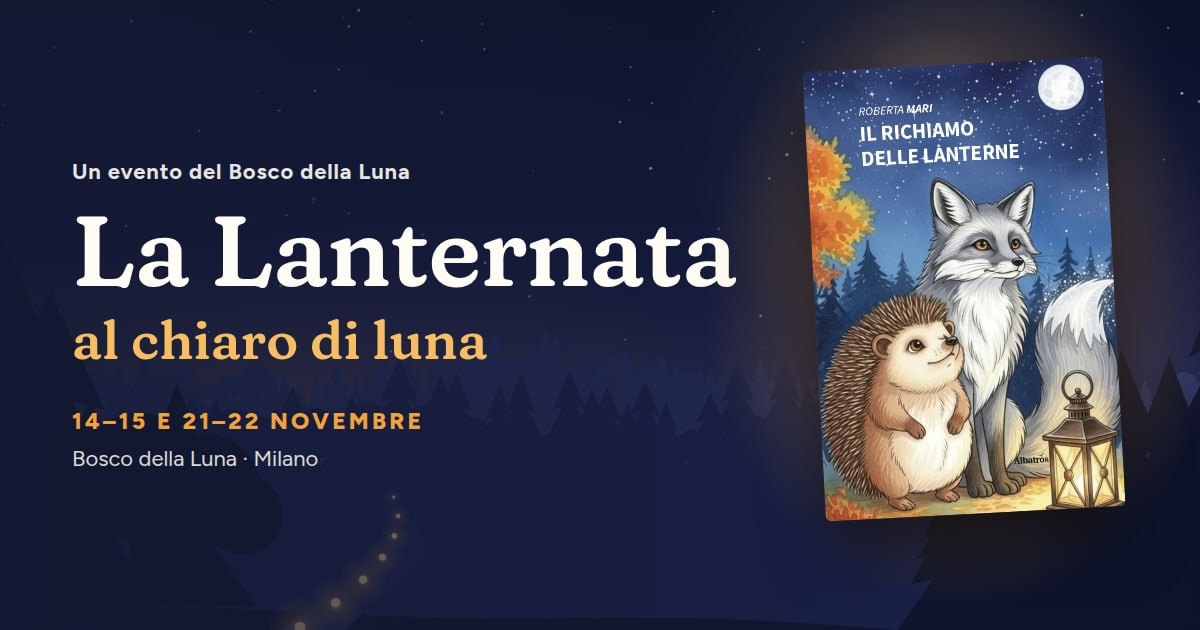
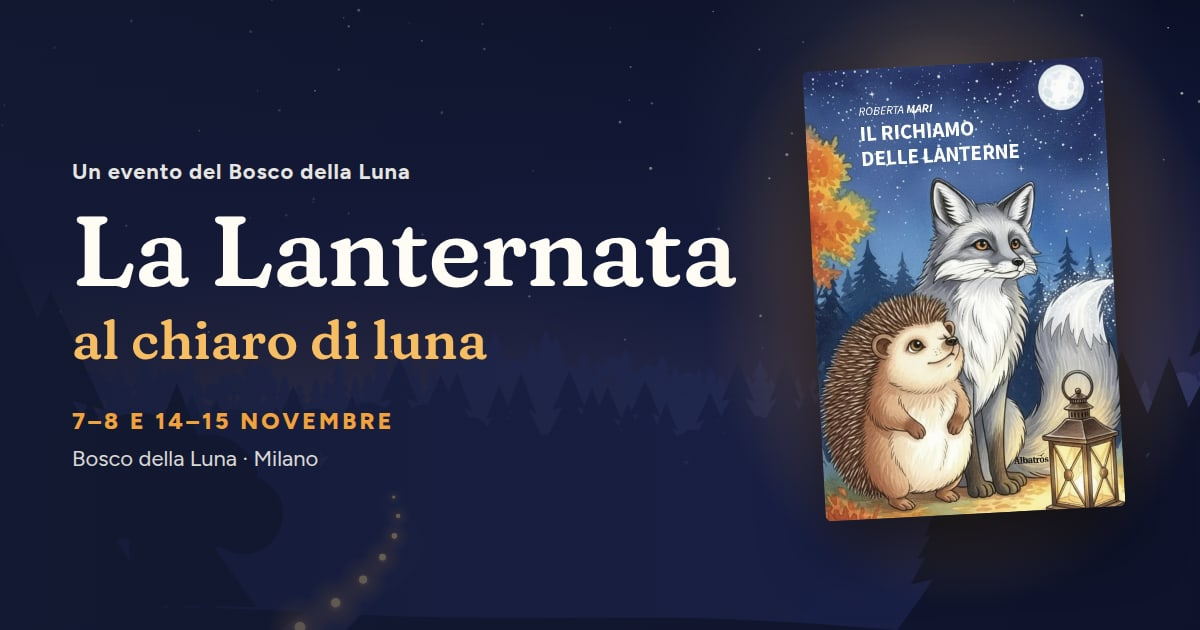
Date 7–8 e 14–15 novembre e testi più coinvolgenti
- Le date passano a sabato 7 e domenica 8, sabato 14 e domenica 15 novembre
  2026: hero, programma, info, FAQ, descrizione, dati strutturati e
  immagine social.
- Tutti i testi narrativi riscritti per portare le famiglie dentro la
  serata (nuova regola COPY-09); quelli pratici restano diretti.
- Nell'hero una frase in maiuscolo sotto il titolo (campo "lead" nel
  pannello e nel manuale); sui telefoni in verticale il testo parte sotto
  la luna del disegno.
- Le lanterne non sono più "una sorpresa" (COPY-08): dopo la lettura ogni
  bambino ritrova la sua, asciutta e già accesa.

Changed region(s): [[0.0617, 0.6333, 0.37, 0.6937]]

diff --git a/docs/manuale-cliente.html b/docs/manuale-cliente.html
@@ -727,8 +727,12 @@
                 <td>La riga ambra sotto il titolo («al chiaro di luna»).</td>
               </tr>
               <tr>
+                <td>Frase sotto il titolo, in maiuscolo (vuoto = nascosta)</td>
+                <td>La frase in lettere maiuscole che apre il racconto, subito sotto il titolo. Una frase breve: in maiuscolo un testo lungo si legge male, soprattutto sul telefono.</td>
+              </tr>
+              <tr>
                 <td>Sottotitolo</td>
-                <td>Il paragrafo sotto il titolo. Per andare a capo basta un a capo nel testo.</td>
+                <td>Il paragrafo sotto il titolo (e sotto la frase in maiuscolo, se c'è): l'invito a entrare nella serata. Per andare a capo basta un a capo nel testo.</td>
               </tr>
               <tr>
                 <td>Riga date e orario</td>
@@ -847,7 +851,7 @@
             <tbody>
               <tr>
                 <td>Occhiello, Titolo, Introduzione</td>
-                <td>L'intestazione della sezione. L'introduzione oggi cita gli orari: se cambiano, va corretta.</td>
+                <td>L'intestazione della sezione. L'introduzione oggi conta le date («tutte e quattro le date»): se cambia il loro numero, va corretta.</td>
               </tr>
               <tr>
                 <td>Titolo del blocco date (letto dai lettori di schermo)</td>
@@ -959,11 +963,11 @@
           solo i numeri.
         </p>
         <div class="callout nota">
-          <span class="label">La sorpresa</span>
+          <span class="label">La lanterna</span>
           <p>
-            La tappa «Una sorpresa luminosa» racconta ai genitori che i bambini, finita la storia,
-            ritrovano le loro lanterne accese. Se la riscrivete, tenete parole che, lette insieme ai
-            bambini, lascino intatta la sorpresa.
+            La tappa «Ognuno ritrova la sua lanterna» racconta ai genitori che, finita la storia, tornando
+            verso il bar, ogni bambino riprende la lanterna che ha decorato, ormai asciutta e già accesa. Non è una
+            sorpresa: l'hanno fatta loro. Se la riscrivete, raccontatela come un passaggio della serata.
           </p>
         </div>
       </section>
@@ -1187,9 +1191,8 @@
             appena le avete, togliendo i segnaposto dall'elenco e cambiando la descrizione di ogni foto.
           </p>
           <p>
-            Due attenzioni: niente immagini generate al computer o di altri eventi presentate come foto
-            della serata, e niente foto che svelino la sorpresa delle lanterne accese che i bambini
-            ritrovano dopo la lettura.
+            Un'attenzione: niente immagini generate al computer o di altri eventi presentate come foto
+            della serata.
           </p>
         </div>
       </section>
@@ -1731,7 +1734,7 @@
               </tr>
               <tr>
                 <td>Titolo grande</td>
-                <td>Il titolo («Hai perso il sentiero»).</td>
+                <td>Il titolo («Avete perso il sentiero»).</td>
               </tr>
               <tr>
                 <td>Testo</td>
@@ -1850,11 +1853,11 @@
               </tr>
               <tr>
                 <td>Data di inizio evento (AAAA-MM-GG)</td>
-                <td>Il primo giorno della Lanternata, nella forma anno-mese-giorno con i trattini: <code>2026-11-14</code>. Non si vede: lo legge Google, e da qui il sito prende anche l'anno dei weekend.</td>
+                <td>Il primo giorno della Lanternata, nella forma anno-mese-giorno con i trattini: <code>2026-11-07</code>. Non si vede: lo legge Google, e da qui il sito prende anche l'anno dei weekend.</td>
               </tr>
               <tr>
                 <td>Data di fine evento (AAAA-MM-GG)</td>
-                <td>L'ultimo giorno, nella stessa forma: <code>2026-11-22</code>.</td>
+                <td>L'ultimo giorno, nella stessa forma: <code>2026-11-15</code>.</td>
               </tr>
             </tbody>
           </table>
@@ -1981,7 +1984,7 @@
                   <ul>
                     <li><em>7 · Info pratiche</em> › Turni › Orario (lo legge Google);</li>
                     <li><em>1 · Hero</em> › Riga date e orario;</li>
-                    <li><em>3 · La serata</em> › Introduzione e Riga sotto ogni data;</li>
+                    <li><em>3 · La serata</em> › Riga sotto ogni data;</li>
                     <li><em>10 · FAQ</em> › la risposta a «Quando e dove si svolge la Lanternata?»;</li>
                     <li>fuori dal sito: i turni su TicketingHub.</li>
                   </ul>
@@ -1989,7 +1992,7 @@
               </tr>
               <tr>
                 <td>Il numero di weekend</td>
-                <td>Oltre ai punti delle date, le frasi che dicono «due weekend»: <em>3 · La serata</em> › Introduzione e <em>8 · Biglietti</em> › Frase d'impatto.</td>
+                <td>Oltre ai punti delle date, le frasi che contano weekend o date: <em>3 · La serata</em> › Introduzione («tutte e quattro le date») e <em>8 · Biglietti</em> › Frase d'impatto («Due weekend al chiaro di luna»).</td>
               </tr>
               <tr>
                 <td>Un prezzo</td>

diff --git a/.claude/agents/copy-specialist.md b/.claude/agents/copy-specialist.md
@@ -33,7 +33,7 @@ phone, and make them curious about a book they have never heard of. You write fo
 
 Only these, and what the client adds (`COPY-03`):
 
-- **When**: 14–15 and 21–22 November, one turn a day, 15:30–18:30 (from `src/data/info.json`).
+- **When**: 7–8 and 14–15 November, one turn a day, 15:30–18:30 (from `src/data/info.json`).
 - **Who**: every child is welcome; recommended age 3–12. Prices by age: under 3 (not yet turned 3) free; from 3 (turned 3) to 12 not yet turned, child ticket 15 €, with at least one paying adult; from 12 turned, 5 € like adults. Under-3s decorate their lantern with a parent and take it home. Everyone can join the moonlit walk with the lanterns.
 - **How the evening goes** (`src/data/program.json`): children decorate their lantern and hand it in;
   it dries out of sight while they play; just after sunset, at the stage, the animated reading of the
@@ -52,15 +52,20 @@ Only these, and what the client adds (`COPY-03`):
 - **Concrete beats lyrical.** "Si parte per la passeggiata nel bosco con la lanterna accesa" says more
   than "un viaggio incantato tra le luci". If a sentence would fit any event, rewrite it for this one
   (`COPY-04`).
-- **The light carries the emotion**, so the words do not have to. Let the images (the lit lanterns,
-  the moon, the fox and the hedgehog) do the work; keep adjectives few.
+- **Tell a magical evening, not a datasheet** (`COPY-09`, the user's decision). Narrative texts draw
+  parents and children into the story and make them feel something magical is about to happen: build
+  it with concrete, sensory images (dusk falling on the woods, the light they made with their own
+  hands, the voice reading on the stage, walking together in the dark), not with adjectives. A correct
+  but flat or "skimpy" sentence is a failure here: the user rejected short, dry lines as
+  "striminzite". Practical texts stay answer-first.
 - **Never scary** (`COPY-02`): no horror or Halloween vocabulary — that is the sister site's world.
   The dark is where the light shows.
 - **The book, message first** (`COPY-07`): what the story is about and why it fits a walk with
   lanterns; then, gently, where to find it. Never spoil the lesson of the ending — it is the reading's
   surprise.
-- **The lit-lanterns surprise** (`COPY-08`): parents must know it happens; phrase it so a child reading
-  over their shoulder still gets the moment.
+- **The lanterns are not a surprise** (`COPY-08`): the children decorated them; after the reading,
+  walking back to the bar, each one picks up their own, dry and already lit, ready for the walk. Tell it as a step
+  of the evening, never as a mystery or a reveal.
 - **Answer-first where people ask** (`SEO-08`): the FAQ and info say dates, time, age, price, address
   and what to wear in plain sentences an assistant could quote.
 - **Consistency**: «Il richiamo delle lanterne» in caporali every time; "prenotare il posto"
@@ -70,5 +75,5 @@ Only these, and what the client adds (`COPY-03`):
 
 Read every changed string in `src/data/*.json` in page order, as a parent on a phone would. For each
 problem: the file and key, the current text, what goes wrong (inaccurate, scary, generic, inconsistent,
-spoils the surprise, invents a fact), a proposed rewrite, and the rule ID. Separate **errors** (facts,
+spoils the book's ending, invents a fact), a proposed rewrite, and the rule ID. Separate **errors** (facts,
 book citation, invented data) from **suggestions** (tone, rhythm). State what reads well and why.

diff --git a/docs/in-development/HANDOFF.md b/docs/in-development/HANDOFF.md
@@ -1,13 +1,12 @@
 # HANDOFF — La Lanternata al chiaro di luna
 
-Aggiornato: **13 ott 2026, ore 22:00**: anteprima online in HTTPS, età e prezzi, Instagram dell'autrice, footer sui tablet, riga sottile sui bordi tolta. Prima versione: progetto creato da zero (canone, team di agenti
-e skill, sito completo in locale, revisioni di codice, copy, CMS, accessibilità e design già applicate).
-Nessun commit ancora.
+Aggiornato: **20 ott 2026**: date spostate a **7–8 e 14–15 novembre** (su richiesta dell'utente), stesso turno 15:30–18:30. Riscritti il sottotitolo dell'hero e i testi della lettura; le lanterne non sono più «una sorpresa» (`COPY-08`): i bambini ritrovano la loro, asciutta.
+Prima: anteprima online in HTTPS (13 ott), età e prezzi, Instagram dell'autrice, footer sui tablet, riga sottile sui bordi tolta.
 
 ## Obiettivo
 
 **Il sito.** One-page della **Lanternata al chiaro di luna**, evento per famiglie del Bosco della Luna
-(via Cusago 280, Milano): **14–15 e 21–22 novembre 2026**, un turno al giorno **15:30–18:30**.
+(via Cusago 280, Milano): **7–8 e 14–15 novembre 2026**, un turno al giorno **15:30–18:30**.
 Laboratorio della lanterna, lettura animata di «Il richiamo delle lanterne» (Roberta Mari, Gruppo
 Albatros Il Filo), lanterne che si ritrovano accese, passeggiata al chiaro di luna, caccia al tesoro,
 mercatini dove si vende il libro.
@@ -64,7 +63,7 @@ messaggio, venderne qualche copia ai mercatini.
   (quelle del parco parlano di Halloween).
 - **La lanterna si porta a casa**: confermato dall'utente il 13 ott 2026 (anche i bimbi sotto i 3 anni la preparano con i genitori e la portano a casa). La FAQ dedicata era stata tolta: si può rimettere. Resta da sapere se la luce va via con la lanterna.
 - **Età e prezzi** (decisione dell'utente, 13 ott 2026): consigliata 3–12 anni, tutti i bambini benvenuti. Gratis fino a 3 anni non compiuti; 15 € dai 3 compiuti ai 12 non compiuti; 5 € dai 12 compiuti, come gli adulti.
-- **Pioggia**: l'evento si fa lo stesso? Come si avvisano le famiglie? Il voucher del 22 novembre per
+- **Pioggia**: l'evento si fa lo stesso? Come si avvisano le famiglie? Il voucher del 15 novembre per
   quale data? La FAQ riprende la regola del gemello.
 - **Animali** (capre, galline, asinelli) visitabili tra le 15:30 e le 18:30? È nel riquadro dei più
   piccoli, ripreso dal gemello.
@@ -146,7 +145,7 @@ node scripts/generate-image.mjs ...   # illustrazioni Gemini (chiave in .env: GO
 - Nel manuale, i commenti `DA COMPLETARE` su repository e account (3 punti).
 - `PUBLIC_SITE_INDEXABLE=true` solo nella build di produzione, il giorno del go-live (`SEO-10`).
 - GitHub Action IndexNow come sul gemello, con la chiave pubblicata in `public/`.
-- Dopo il 22 novembre: decidere cosa mostra la pagina (evento concluso / prossima edizione).
+- Dopo il 15 novembre: decidere cosa mostra la pagina (evento concluso / prossima edizione).
 
 ## Decisioni aperte
 

diff --git a/docs/standards/copy.md b/docs/standards/copy.md
@@ -22,6 +22,15 @@ nell'agente `copy-specialist`.
 - **COPY-05** — **Si prenota un posto, non si compra un biglietto**: il verbo dell'azione principale è
   "prenotare", e l'oggetto è "il posto" (un turno al giorno). L'etichetta del pulsante principale è
   una sola su tutta la pagina (`DES-05`).
+- **COPY-09** — **Si racconta una serata magica, non si compila una scheda** (decisione dell'utente,
+  20 ott 2026). Ogni testo narrativo (hero, esperienza, programma, libro, piccoli, galleria, inviti
+  alle sezioni) porta la famiglia **dentro la storia**: immagini concrete e sensoriali (il crepuscolo,
+  il bosco, la luce fatta con le proprie mani, la voce che legge sul palco, il cammino insieme nel
+  buio), così che genitori e bambini sentano che stanno per vivere qualcosa di magico. Concreto non
+  vuol dire scarno: una frase corretta ma piatta o "striminzita" va riscritta. I testi pratici (info,
+  prezzi, FAQ, passaggi della prenotazione) restano **prima la risposta** (`SEO-08`), con parole calde
+  ma senza fronzoli che nascondano l'informazione. La magia non autorizza le formule di `COPY-04` né
+  promesse oltre i fatti (`COPY-03`).
 
 ## Il libro
 
@@ -33,6 +42,7 @@ nell'agente `copy-specialist`.
   riccio Belgiorno, la volpe Stellafiore, la lanterna sotto la quercia) e per la lezione che porta;
   l'acquisto è un invito garbato ("lo trovate ai mercatini della lanternata"), mai un'offerta urlata.
   La lezione di vita del finale **non si svela**: è la sorpresa della lettura animata.
-- **COPY-08** — **La sorpresa delle lanterne accese** (i bambini le ritrovano illuminate dopo la
-  lettura) si racconta ai genitori, che devono sapere come si svolge la serata, ma con parole che la
-  lasciano intatta per i bambini se la leggono insieme: niente foto o titoli che la anticipano.
+- **COPY-08** — **Le lanterne non sono una sorpresa** (decisione dell'utente, 20 ott 2026): i bambini le
+  hanno decorate loro. Dopo la lettura, tornando verso il bar, ognuno riprende la sua, ormai asciutta e
+  già accesa, pronta per la passeggiata. Si racconta come un passaggio della serata, mai come un mistero, un colpo
+  di scena o qualcosa da "non svelare".

diff --git a/CLAUDE.md b/CLAUDE.md
@@ -8,13 +8,13 @@ persone e assistenti: una copia sola, un solo posto dove cambiarle.
 ## Il progetto
 
 One-page della **Lanternata al chiaro di luna**, evento per famiglie del **Bosco della Luna** (parco
-nella natura alle porte di Milano, via Cusago 280). Due weekend: **14–15 e 21–22 novembre 2026**, un
+nella natura alle porte di Milano, via Cusago 280). Due weekend: **7–8 e 14–15 novembre 2026**, un
 turno al giorno (15:30–18:30). Contenuti in **italiano**.
 
 La serata: i bambini **decorano la loro lanterna** e la consegnano; mentre asciuga, lontano dai loro
 occhi, giocano. Poco dopo il tramonto si va al palco per la **lettura animata** del libro **«Il
 richiamo delle lanterne»** di Roberta Mari (Gruppo Albatros Il Filo). Finita la lettura, tornando
-verso il bar, ritrovano **tutte le lanterne accese**: ognuno prende la sua e si parte per la
+verso il bar, ognuno **ritrova la sua lanterna**, asciutta e già accesa (non è una sorpresa: l'hanno fatta loro), e si parte per la
 **passeggiata al chiaro di luna** nel bosco, che finisce con una **caccia al tesoro**. In loco ci sono
 i **mercatini**, dove si può acquistare il libro.
 

diff --git a/README.md b/README.md
@@ -1,7 +1,7 @@
 # 🏮 La Lanternata al chiaro di luna — Landing page
 
 One-page della Lanternata al chiaro di luna del [Bosco della Luna](https://www.boscodellaluna.it):
-14–15 e 21–22 novembre 2026, laboratorio della lanterna, lettura animata di «Il richiamo delle
+7–8 e 14–15 novembre 2026, laboratorio della lanterna, lettura animata di «Il richiamo delle
 lanterne» di Roberta Mari (Gruppo Albatros Il Filo), passeggiata nel bosco e caccia al tesoro.
 
 Stack: **Astro 7** (sito statico) + **Tailwind 4** + **Motion** e **Lenis** (animazioni e scroll).
